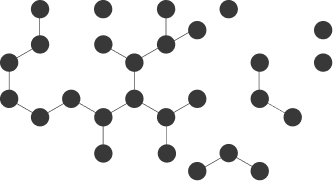
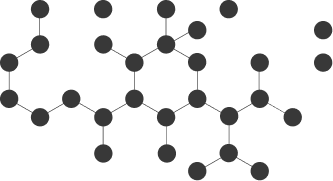
Molecules styles was changed.

Changed region(s): [[0.6306, 0.5801, 0.7508, 0.8011], [0.5105, 0.2762, 0.6306, 0.4144]]

diff --git a/src/configs/roof-scene.js b/src/configs/roof-scene.js
@@ -35,14 +35,6 @@ import Molecule6_1 from '../assets/images/molecule6-1.png';
 import Molecule6_2 from '../assets/images/molecule6-2.png';
 import Molecule6_3 from '../assets/images/molecule6-3.png';
 import Molecule6_4 from '../assets/images/molecule6-4.png';
-import Molecule7_1 from '../assets/images/molecule7-1.png';
-import Molecule7_2 from '../assets/images/molecule7-2.png';
-import Molecule7_3 from '../assets/images/molecule7-3.png';
-import Molecule7_4 from '../assets/images/molecule7-4.png';
-import Molecule8_1 from '../assets/images/molecule8-1.png';
-import Molecule8_2 from '../assets/images/molecule8-2.png';
-import Molecule8_3 from '../assets/images/molecule8-3.png';
-import Molecule8_4 from '../assets/images/molecule8-4.png';
 
 export const ROOF_SCENE = {
   name: 'Roof',
@@ -154,7 +146,7 @@ export const ROOF_SCENE = {
         },
         position: {
           x: 74,
-          y: 46,
+          y: 45,
           width: 39,
           height: 39,
           zIndex: 2,
@@ -164,11 +156,9 @@ export const ROOF_SCENE = {
             slot1_1: 4,
             slot1_2: 3,
             slot1_3: 4,
-            slot1_4: 3,
+            slot1_4: 2,
             slot1_5: 2,
-            slot1_6: 1,
-            slot1_7: 2,
-            slot1_8: 3,
+            slot1_6: 3,
           },
           selected: 1,
           hideOnResolved: ['slot1'],
@@ -343,10 +333,10 @@ export const ROOF_SCENE = {
           },
         },
         position: {
-          x: 143,
-          y: 68,
-          width: 37,
-          height: 38,
+          x: 91,
+          y: 77,
+          width: 39,
+          height: 41,
           zIndex: 2,
         },
         logical: {
@@ -367,7 +357,7 @@ export const ROOF_SCENE = {
               element: {
                 type: 'image',
                 image: {
-                  src: Molecule4_2,
+                  src: Molecule4_4,
                 },
               },
             },
@@ -376,7 +366,7 @@ export const ROOF_SCENE = {
               element: {
                 type: 'image',
                 image: {
-                  src: Molecule4_4,
+                  src: Molecule4_3,
                 },
               },
             },
@@ -385,7 +375,7 @@ export const ROOF_SCENE = {
               element: {
                 type: 'image',
                 image: {
-                  src: Molecule4_3,
+                  src: Molecule4_2,
                 },
               },
             },
@@ -403,10 +393,10 @@ export const ROOF_SCENE = {
           },
         },
         position: {
-          x: 91,
-          y: 77,
+          x: 74,
+          y: 112,
           width: 39,
-          height: 41,
+          height: 42,
           zIndex: 2,
         },
         logical: {
@@ -459,127 +449,7 @@ export const ROOF_SCENE = {
         element: {
           type: 'image',
           image: {
-            src: Molecule6_4,
-          },
-        },
-        position: {
-          x: 160,
-          y: 104,
-          width: 38,
-          height: 40,
-          zIndex: 2,
-        },
-        logical: {
-          hideOnResolved: ['slot1'],
-          selected: 1,
-          options: [
-            {
-              id: 1,
-              element: {
-                type: 'image',
-                image: {
-                  src: Molecule6_4,
-                },
-              },
-            },
-            {
-              id: 2,
-              element: {
-                type: 'image',
-                image: {
-                  src: Molecule6_2,
-                },
-              },
-            },
-            {
-              id: 3,
-              element: {
-                type: 'image',
-                image: {
-                  src: Molecule6_3,
-                },
-              },
-            },
-            {
-              id: 4,
-              element: {
-                type: 'image',
-                image: {
-                  src: Molecule6_1,
-                },
-              },
-            },
-          ],
-        },
-      },
-      {
-        type: 'slot',
-        group: 'slot1',
-        id: 'slot1_7',
-        element: {
-          type: 'image',
-          image: {
-            src: Molecule7_1,
-          },
-        },
-        position: {
-          x: 74,
-          y: 112,
-          width: 39,
-          height: 42,
-          zIndex: 2,
-        },
-        logical: {
-          hideOnResolved: ['slot1'],
-          selected: 1,
-          options: [
-            {
-              id: 1,
-              element: {
-                type: 'image',
-                image: {
-                  src: Molecule7_1,
-                },
-              },
-            },
-            {
-              id: 2,
-              element: {
-                type: 'image',
-                image: {
-                  src: Molecule7_4,
-                },
-              },
-            },
-            {
-              id: 3,
-              element: {
-                type: 'image',
-                image: {
-                  src: Molecule7_3,
-                },
-              },
-            },
-            {
-              id: 4,
-              element: {
-                type: 'image',
-                image: {
-                  src: Molecule7_2,
-                },
-              },
-            },
-          ],
-        },
-      },
-      {
-        type: 'slot',
-        group: 'slot1',
-        id: 'slot1_8',
-        element: {
-          type: 'image',
-          image: {
-            src: Molecule8_3,
+            src: Molecule6_3,
           },
         },
         position: {
@@ -598,7 +468,7 @@ export const ROOF_SCENE = {
               element: {
                 type: 'image',
                 image: {
-                  src: Molecule8_3,
+                  src: Molecule6_3,
                 },
               },
             },
@@ -607,7 +477,7 @@ export const ROOF_SCENE = {
               element: {
                 type: 'image',
                 image: {
-                  src: Molecule8_2,
+                  src: Molecule6_2,
                 },
               },
             },
@@ -616,7 +486,7 @@ export const ROOF_SCENE = {
               element: {
                 type: 'image',
                 image: {
-                  src: Molecule8_1,
+                  src: Molecule6_1,
                 },
               },
             },
@@ -625,7 +495,7 @@ export const ROOF_SCENE = {
               element: {
                 type: 'image',
                 image: {
-                  src: Molecule8_4,
+                  src: Molecule6_4,
                 },
               },
             },
